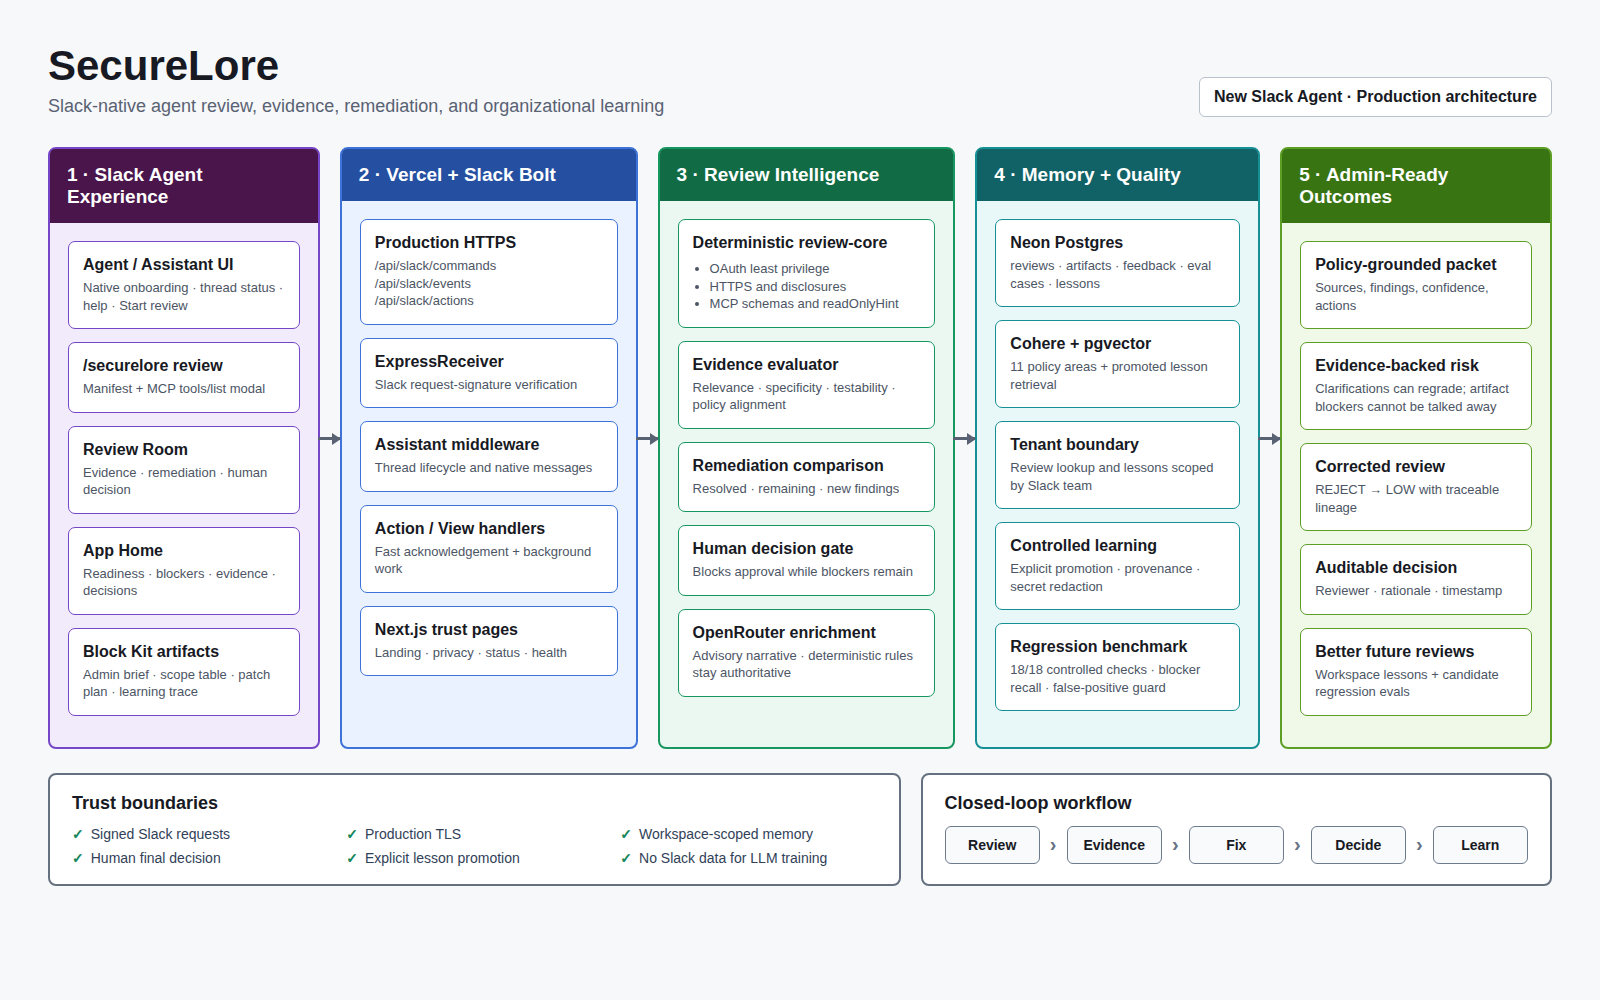
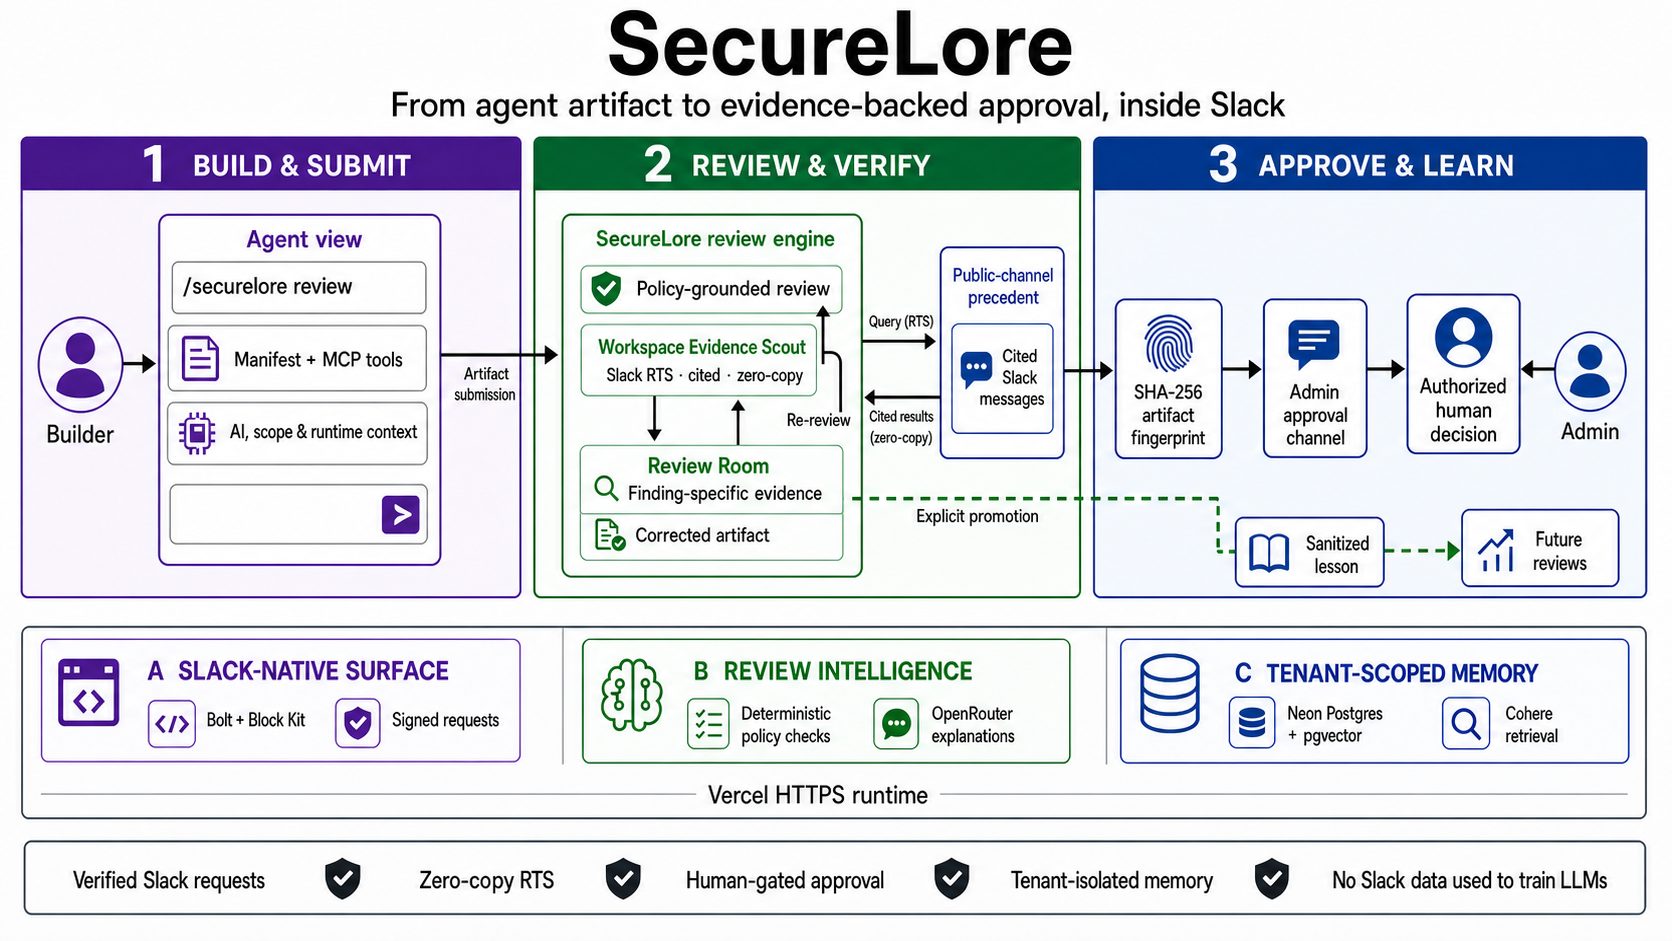
docs: present product-native SecureLore architecture

Changed region(s): [[0.0, 0.0, 1.0, 0.9862]]

diff --git a/README.md b/README.md
@@ -53,6 +53,12 @@ flowchart LR
 
 ## Architecture
 
+The product architecture follows the decision journey from builder submission to policy review, workspace precedent, corrected artifacts, fingerprint-bound approval, and explicit retrieval learning.
+
+![SecureLore product architecture](public/securelore-architecture.png)
+
+The compact Mermaid view below shows the same runtime components and integration boundaries in a repository-native format.
+
 ```mermaid
 flowchart LR
   Slack[Slack Agent UI, command, App Home] --> Vercel[Vercel HTTPS endpoints]